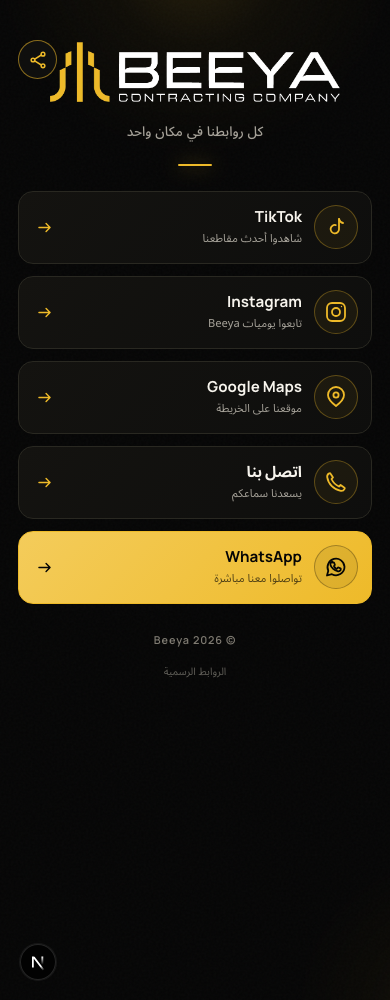
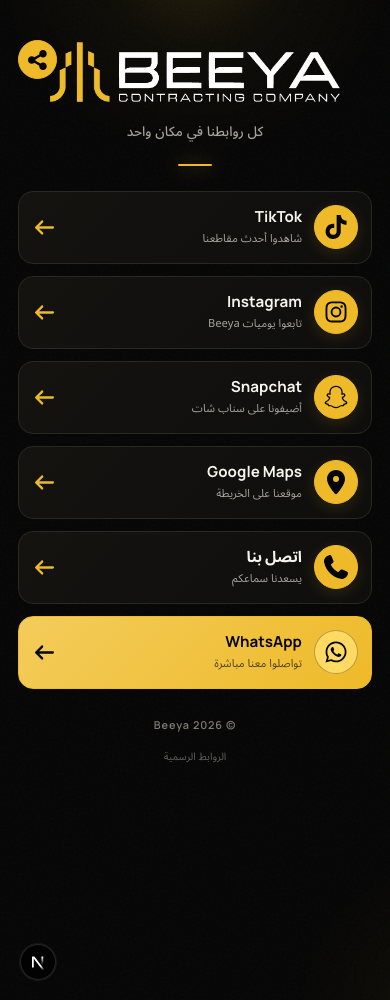
first deploy

diff --git a/app/page.js b/app/page.js
@@ -2,6 +2,19 @@
 
 import Image from "next/image";
 import { useState } from "react";
+import { FontAwesomeIcon } from "@fortawesome/react-fontawesome";
+import {
+  faInstagram,
+  faSnapchat,
+  faTiktok,
+  faWhatsapp,
+} from "@fortawesome/free-brands-svg-icons";
+import {
+  faArrowLeft,
+  faLocationDot,
+  faPhone,
+  faShareNodes,
+} from "@fortawesome/free-solid-svg-icons";
 
 const accounts = {
   tiktok: "https://vt.tiktok.com/ZSXDnd2Qc/",
@@ -21,27 +34,25 @@ const links = [
   { title: "WhatsApp", subtitle: "تواصلوا معنا مباشرة", href: accounts.whatsapp, icon: "whatsapp", featured: true },
 ];
 
-function Icon({ name, size = 24 }) {
-  const common = {
-    width: size,
-    height: size,
-    viewBox: "0 0 24 24",
-    fill: "none",
-    stroke: "currentColor",
-    strokeWidth: 1.8,
-    strokeLinecap: "round",
-    strokeLinejoin: "round",
-    "aria-hidden": true,
-  };
+const iconMap = {
+  share: faShareNodes,
+  instagram: faInstagram,
+  tiktok: faTiktok,
+  snapchat: faSnapchat,
+  map: faLocationDot,
+  phone: faPhone,
+  whatsapp: faWhatsapp,
+  arrow: faArrowLeft,
+};
 
-  if (name === "share") return <svg {...common}><circle cx="18" cy="5" r="2.2"/><circle cx="6" cy="12" r="2.2"/><circle cx="18" cy="19" r="2.2"/><path d="m8 11 8-5M8 13l8 5"/></svg>;
-  if (name === "instagram") return <svg {...common}><rect x="3" y="3" width="18" height="18" rx="5"/><circle cx="12" cy="12" r="4"/><circle cx="17.5" cy="6.5" r=".7" fill="currentColor" stroke="none"/></svg>;
-  if (name === "tiktok") return <svg {...common}><path d="M15 4v10.2a4.2 4.2 0 1 1-3.2-4.1"/><path d="M15 4c.7 2.3 2 3.7 4 4"/></svg>;
-  if (name === "snapchat") return <svg {...common}><path d="M12 3.2c-2.8 0-4.4 2.2-4.4 5.1 0 .8.1 1.5 0 2-.2.5-.8.7-1.5 1-.8.3-1.2.7-.9 1.3.2.4.8.6 1.7.7.3 1.3 1.2 2.1 2.5 2.4.2.7.5 1.1 1.1 1 .5-.1 1-.3 1.5-.3s1 .2 1.5.3c.6.1.9-.3 1.1-1 1.3-.3 2.2-1.1 2.5-2.4.9-.1 1.5-.3 1.7-.7.3-.6-.1-1-.9-1.3-.7-.3-1.3-.5-1.5-1-.1-.5 0-1.2 0-2 0-2.9-1.6-5.1-4.4-5.1Z"/></svg>;
-  if (name === "map") return <svg {...common}><path d="M20 10c0 5-8 11-8 11S4 15 4 10a8 8 0 1 1 16 0Z"/><circle cx="12" cy="10" r="2.6"/></svg>;
-  if (name === "phone") return <svg {...common}><path d="M6.6 3.8 9 7.4 7.5 9a15.2 15.2 0 0 0 7.5 7.5l1.6-1.5 3.6 2.4c.5.3.7.9.4 1.4-.7 1.4-2.2 2.2-3.8 2-6.9-1-12.6-6.7-13.6-13.6-.2-1.6.6-3.1 2-3.8.5-.3 1.1-.1 1.4.4Z"/></svg>;
-  if (name === "whatsapp") return <svg {...common}><path d="M20.5 11.7a8.5 8.5 0 0 1-12.6 7.5L3 20.5l1.3-4.7A8.5 8.5 0 1 1 20.5 11.7Z"/><path d="M8.4 7.7c.2-.4.4-.4.7-.4h.4c.2 0 .4.1.5.4l.8 1.8c.1.3 0 .5-.1.7l-.6.7c-.2.2-.1.4 0 .6.5.9 1.3 1.7 2.2 2.2.3.2.5.2.7 0l.8-1c.2-.2.4-.3.7-.2l1.9.9c.3.1.4.3.4.5 0 .4-.2 1.3-.8 1.8-.6.6-1.5.8-2.5.5-1.1-.3-2.6-.8-4.3-2.3-1.4-1.3-2.4-2.9-2.7-4-.4-1.2 0-1.9.3-2.3.4-.4.9-.7 1.6-.9Z"/></svg>;
-  return <svg {...common}><path d="M19 12H5M10 7l-5 5 5 5"/></svg>;
+function Icon({ name, size = 24 }) {
+  return (
+    <FontAwesomeIcon
+      icon={iconMap[name]}
+      aria-hidden="true"
+      style={{ width: size, height: size }}
+    />
+  );
 }
 
 export default function Home() {

diff --git a/app/globals.css b/app/globals.css
@@ -64,17 +64,17 @@ a { color: inherit; text-decoration: none; }
   left: 0;
   width: 42px;
   height: 42px;
-  border: 1px solid rgba(238, 186, 41, .55);
+  border: 1px solid var(--gold);
   border-radius: 50%;
-  background: rgba(17, 17, 15, .78);
-  color: var(--gold);
+  background: var(--gold);
+  color: var(--black);
   display: grid;
   place-items: center;
   cursor: pointer;
   z-index: 2;
   transition: color .2s ease, background-color .2s ease, border-color .2s ease, transform .2s ease;
 }
-.share-button:hover { color: var(--black); background: var(--gold); border-color: var(--gold); transform: translateY(-2px); }
+.share-button:hover { color: var(--black); background: var(--gold-soft); border-color: var(--gold-soft); transform: translateY(-2px); }
 .share-button:focus-visible, a:focus-visible { outline: 3px solid var(--gold-soft); outline-offset: 4px; }
 
 .profile-header { text-align: center; animation: rise .6s both; }
@@ -110,8 +110,8 @@ a { color: inherit; text-decoration: none; }
 .link-card.featured { color: var(--black); border-color: var(--gold); background: linear-gradient(135deg, var(--gold-soft), var(--gold)); }
 .link-card.featured:hover { border-color: #ffe18d; box-shadow: 0 10px 35px rgba(238, 186, 41, .15); }
 
-.link-icon { width: 48px; height: 48px; display: grid; place-items: center; border: 1px solid rgba(238, 186, 41, .32); border-radius: 50%; color: var(--gold); background: rgba(238, 186, 41, .06); }
-.featured .link-icon { color: var(--black); border-color: rgba(0,0,0,.28); background: rgba(0,0,0,.07); }
+.link-icon { width: 48px; height: 48px; display: grid; place-items: center; border: 1px solid var(--gold); border-radius: 50%; color: var(--black); background: var(--gold); box-shadow: 0 4px 16px rgba(238, 186, 41, .14); }
+.featured .link-icon { color: var(--black); border-color: rgba(0,0,0,.28); background: #ffda63; box-shadow: none; }
 .link-copy { min-width: 0; line-height: 1.3; }
 .link-copy strong { display: block; font: 700 .95rem/1.3 "Manrope", "Noto Sans Arabic", sans-serif; unicode-bidi: plaintext; text-align: right; }
 .link-copy small { display: block; color: var(--muted); font-size: .7rem; margin-top: 5px; text-align: right; }

diff --git a/app/layout.js b/app/layout.js
@@ -1,4 +1,8 @@
 import "./globals.css";
+import "@fortawesome/fontawesome-svg-core/styles.css";
+import { config } from "@fortawesome/fontawesome-svg-core";
+
+config.autoAddCss = false;
 
 export const metadata = {
   title: "Beeya | الروابط الرسمية",
